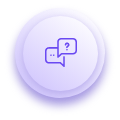
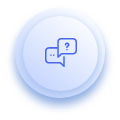
add mobile template and change some colors and texts

Changed region(s): [[0.375, 0.3, 0.65, 0.575]]

diff --git a/index.html b/index.html
@@ -151,7 +151,7 @@
             <!-- banner text -->
             <div class="banner_text">
               <!-- h1 -->
-              <h1>Best way to <span>manage your customers.</span></h1>
+              <h1>Cuidamos de si <span>e de quem mais gosta.</span></h1>
               <!-- p -->
               <p>Lorem Ipsum is simply dummy text of the printing and setting indus orem Ipsum has been the industrys.
               </p>
@@ -196,17 +196,17 @@
               <div id="frmae_slider" class="owl-carousel owl-theme">
                 <div class="item">
                   <div class="slider_img">
-                    <img src="images/screen.png" alt="image">
+                    <img src="images/screen__.png" alt="image">
                   </div>
                 </div>
                 <div class="item">
                   <div class="slider_img">
-                    <img src="images/screen.png" alt="image">
+                    <img src="images/screen___.png" alt="image">
                   </div>
                 </div>
                 <div class="item">
                   <div class="slider_img">
-                    <img src="images/screen.png" alt="image">
+                    <img src="images/screen____.png" alt="image">
                   </div>
                 </div>
               </div>
@@ -1053,7 +1053,7 @@
           <div id="screen_slider" class="owl-carousel owl-theme">
             <div class="item">
               <div class="screen_frame_img">
-                <img src="images/screen-1.png" alt="image">
+                <img src="images/screen-1_1.png" alt="image">
               </div>
             </div>
             <div class="item">

diff --git a/css/style.css b/css/style.css
@@ -366,7 +366,7 @@ button:focus,
 }
 
 .owl-carousel .owl-dots button.active {
-    background-color: var(--purple);
+    background-color: var(--purple-blue);
 }
 
 /* -------------Preloader-Css-Start-------------- */
@@ -865,7 +865,7 @@ header.fixed .navbar {
     width: 475px;
     height: 475px;
     border-radius: 100%;
-    background-color: var(--purple);
+    background-color: var(--app-blue);
     z-index: -5;
 }
 

diff --git a/css/bootstrap.min.css b/css/bootstrap.min.css
@@ -9,6 +9,7 @@
   --indigo: #6610f2;
   --purple: #4f47d9;
   --purple-blue: #3e54b4;
+  --app-blue: #bbc5fd;
   --pink: #e83e8c;
   --red: #dc3545;
   --orange: #fd7e14;
